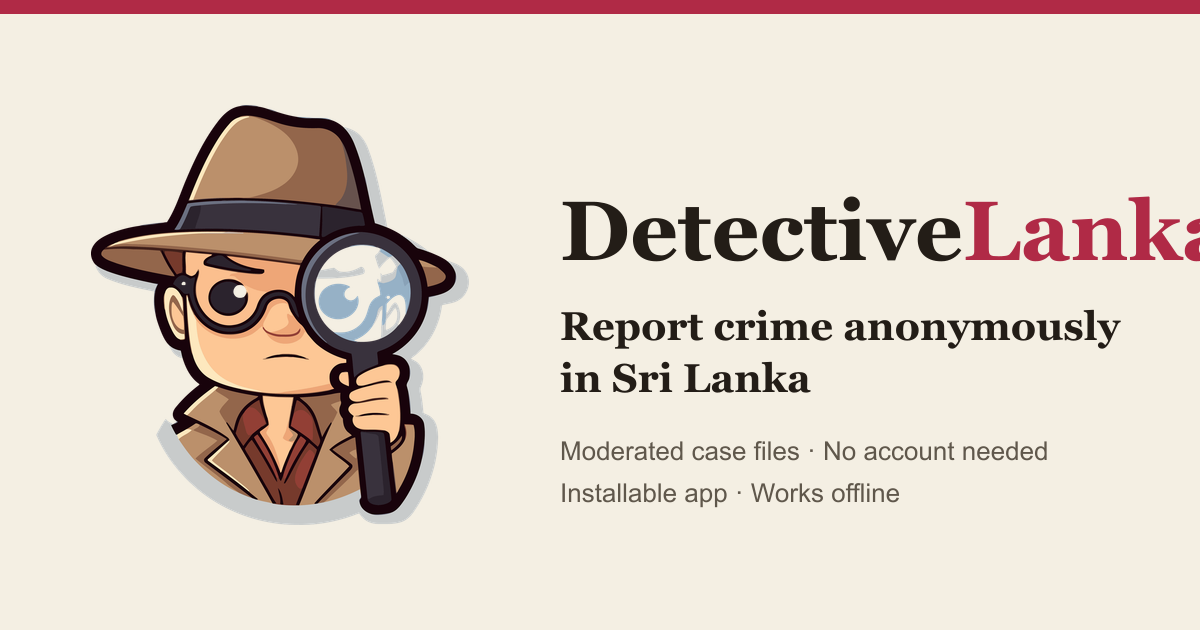
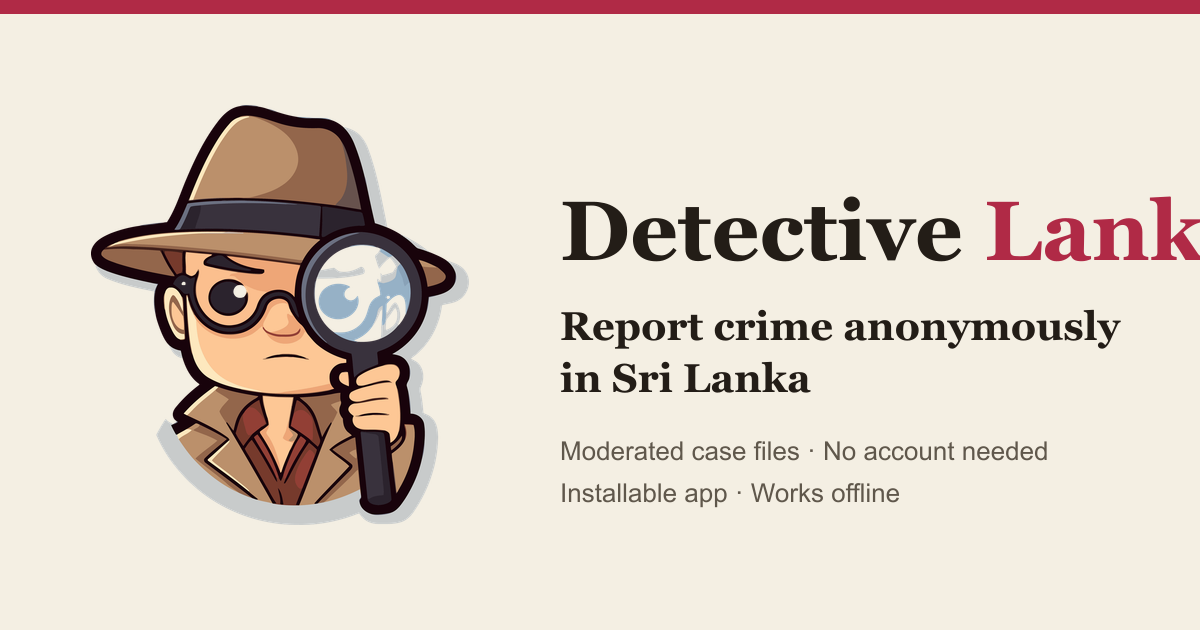
Rename display name to Detective Lanka; new splash screens (v2 names, iPhone Air size)

Changed region(s): [[0.8017, 0.3016, 1.0, 0.4222]]

diff --git a/index.html b/index.html
@@ -31,43 +31,44 @@
     <meta name="apple-mobile-web-app-title" content="Detective Lanka" />
     <meta name="apple-mobile-web-app-status-bar-style" content="default" />
     <link rel="apple-touch-icon" sizes="180x180" href="https://detectivelanka.vercel.app/icons/apple-touch-icon.png?v=2" />
-    <link rel="apple-touch-startup-image" media="(device-width: 440px) and (device-height: 956px) and (-webkit-device-pixel-ratio: 3) and (orientation: portrait)" href="/splash/splash-1320x2868.png" />
-    <link rel="apple-touch-startup-image" media="(device-width: 402px) and (device-height: 874px) and (-webkit-device-pixel-ratio: 3) and (orientation: portrait)" href="/splash/splash-1206x2622.png" />
-    <link rel="apple-touch-startup-image" media="(device-width: 430px) and (device-height: 932px) and (-webkit-device-pixel-ratio: 3) and (orientation: portrait)" href="/splash/splash-1290x2796.png" />
-    <link rel="apple-touch-startup-image" media="(device-width: 393px) and (device-height: 852px) and (-webkit-device-pixel-ratio: 3) and (orientation: portrait)" href="/splash/splash-1179x2556.png" />
-    <link rel="apple-touch-startup-image" media="(device-width: 428px) and (device-height: 926px) and (-webkit-device-pixel-ratio: 3) and (orientation: portrait)" href="/splash/splash-1284x2778.png" />
-    <link rel="apple-touch-startup-image" media="(device-width: 390px) and (device-height: 844px) and (-webkit-device-pixel-ratio: 3) and (orientation: portrait)" href="/splash/splash-1170x2532.png" />
-    <link rel="apple-touch-startup-image" media="(device-width: 375px) and (device-height: 812px) and (-webkit-device-pixel-ratio: 3) and (orientation: portrait)" href="/splash/splash-1125x2436.png" />
-    <link rel="apple-touch-startup-image" media="(device-width: 414px) and (device-height: 896px) and (-webkit-device-pixel-ratio: 3) and (orientation: portrait)" href="/splash/splash-1242x2688.png" />
-    <link rel="apple-touch-startup-image" media="(device-width: 414px) and (device-height: 896px) and (-webkit-device-pixel-ratio: 2) and (orientation: portrait)" href="/splash/splash-828x1792.png" />
-    <link rel="apple-touch-startup-image" media="(device-width: 414px) and (device-height: 736px) and (-webkit-device-pixel-ratio: 3) and (orientation: portrait)" href="/splash/splash-1242x2208.png" />
-    <link rel="apple-touch-startup-image" media="(device-width: 375px) and (device-height: 667px) and (-webkit-device-pixel-ratio: 2) and (orientation: portrait)" href="/splash/splash-750x1334.png" />
-    <link rel="apple-touch-startup-image" media="(device-width: 320px) and (device-height: 568px) and (-webkit-device-pixel-ratio: 2) and (orientation: portrait)" href="/splash/splash-640x1136.png" />
-    <link rel="apple-touch-startup-image" media="(device-width: 834px) and (device-height: 1194px) and (-webkit-device-pixel-ratio: 2) and (orientation: portrait)" href="/splash/splash-1668x2388.png" />
-    <link rel="apple-touch-startup-image" media="(device-width: 1024px) and (device-height: 1366px) and (-webkit-device-pixel-ratio: 2) and (orientation: portrait)" href="/splash/splash-2048x2732.png" />
-    <link rel="apple-touch-startup-image" media="(device-width: 834px) and (device-height: 1112px) and (-webkit-device-pixel-ratio: 2) and (orientation: portrait)" href="/splash/splash-1668x2224.png" />
-    <link rel="apple-touch-startup-image" media="(device-width: 810px) and (device-height: 1080px) and (-webkit-device-pixel-ratio: 2) and (orientation: portrait)" href="/splash/splash-1620x2160.png" />
-    <link rel="apple-touch-startup-image" media="(device-width: 768px) and (device-height: 1024px) and (-webkit-device-pixel-ratio: 2) and (orientation: portrait)" href="/splash/splash-1536x2048.png" />
+    <link rel="apple-touch-startup-image" media="(device-width: 440px) and (device-height: 956px) and (-webkit-device-pixel-ratio: 3) and (orientation: portrait)" href="/splash/splash-v2-1320x2868.png" />
+    <link rel="apple-touch-startup-image" media="(device-width: 420px) and (device-height: 912px) and (-webkit-device-pixel-ratio: 3) and (orientation: portrait)" href="/splash/splash-v2-1260x2736.png" />
+    <link rel="apple-touch-startup-image" media="(device-width: 402px) and (device-height: 874px) and (-webkit-device-pixel-ratio: 3) and (orientation: portrait)" href="/splash/splash-v2-1206x2622.png" />
+    <link rel="apple-touch-startup-image" media="(device-width: 430px) and (device-height: 932px) and (-webkit-device-pixel-ratio: 3) and (orientation: portrait)" href="/splash/splash-v2-1290x2796.png" />
+    <link rel="apple-touch-startup-image" media="(device-width: 393px) and (device-height: 852px) and (-webkit-device-pixel-ratio: 3) and (orientation: portrait)" href="/splash/splash-v2-1179x2556.png" />
+    <link rel="apple-touch-startup-image" media="(device-width: 428px) and (device-height: 926px) and (-webkit-device-pixel-ratio: 3) and (orientation: portrait)" href="/splash/splash-v2-1284x2778.png" />
+    <link rel="apple-touch-startup-image" media="(device-width: 390px) and (device-height: 844px) and (-webkit-device-pixel-ratio: 3) and (orientation: portrait)" href="/splash/splash-v2-1170x2532.png" />
+    <link rel="apple-touch-startup-image" media="(device-width: 375px) and (device-height: 812px) and (-webkit-device-pixel-ratio: 3) and (orientation: portrait)" href="/splash/splash-v2-1125x2436.png" />
+    <link rel="apple-touch-startup-image" media="(device-width: 414px) and (device-height: 896px) and (-webkit-device-pixel-ratio: 3) and (orientation: portrait)" href="/splash/splash-v2-1242x2688.png" />
+    <link rel="apple-touch-startup-image" media="(device-width: 414px) and (device-height: 896px) and (-webkit-device-pixel-ratio: 2) and (orientation: portrait)" href="/splash/splash-v2-828x1792.png" />
+    <link rel="apple-touch-startup-image" media="(device-width: 414px) and (device-height: 736px) and (-webkit-device-pixel-ratio: 3) and (orientation: portrait)" href="/splash/splash-v2-1242x2208.png" />
+    <link rel="apple-touch-startup-image" media="(device-width: 375px) and (device-height: 667px) and (-webkit-device-pixel-ratio: 2) and (orientation: portrait)" href="/splash/splash-v2-750x1334.png" />
+    <link rel="apple-touch-startup-image" media="(device-width: 320px) and (device-height: 568px) and (-webkit-device-pixel-ratio: 2) and (orientation: portrait)" href="/splash/splash-v2-640x1136.png" />
+    <link rel="apple-touch-startup-image" media="(device-width: 834px) and (device-height: 1194px) and (-webkit-device-pixel-ratio: 2) and (orientation: portrait)" href="/splash/splash-v2-1668x2388.png" />
+    <link rel="apple-touch-startup-image" media="(device-width: 1024px) and (device-height: 1366px) and (-webkit-device-pixel-ratio: 2) and (orientation: portrait)" href="/splash/splash-v2-2048x2732.png" />
+    <link rel="apple-touch-startup-image" media="(device-width: 834px) and (device-height: 1112px) and (-webkit-device-pixel-ratio: 2) and (orientation: portrait)" href="/splash/splash-v2-1668x2224.png" />
+    <link rel="apple-touch-startup-image" media="(device-width: 810px) and (device-height: 1080px) and (-webkit-device-pixel-ratio: 2) and (orientation: portrait)" href="/splash/splash-v2-1620x2160.png" />
+    <link rel="apple-touch-startup-image" media="(device-width: 768px) and (device-height: 1024px) and (-webkit-device-pixel-ratio: 2) and (orientation: portrait)" href="/splash/splash-v2-1536x2048.png" />
 
     <!-- Windows tiles -->
     <meta name="msapplication-TileColor" content="#154434" />
     <meta name="msapplication-TileImage" content="/icons/icon-192.png" />
 
-    <meta property="og:site_name" content="DetectiveLanka" />
+    <meta property="og:site_name" content="Detective Lanka" />
     <meta property="og:type" content="website" />
     <meta property="og:locale" content="en_LK" />
     <meta property="og:url" content="https://detectivelanka.vercel.app/" />
-    <meta property="og:title" content="DetectiveLanka — Report Crime Anonymously in Sri Lanka | Anonymous Case Files" />
+    <meta property="og:title" content="Detective Lanka — Report Crime Anonymously in Sri Lanka | Anonymous Case Files" />
     <meta property="og:description" content="Report crime anonymously in Sri Lanka. Open a case, add evidence photos and read moderated public case files on fraud, scams, corruption, theft and cyber crime — no account, name or phone number needed." />
     <meta property="og:image" content="https://detectivelanka.vercel.app/og-image.png" />
     <meta property="og:image:width" content="1200" />
     <meta property="og:image:height" content="630" />
-    <meta property="og:image:alt" content="DetectiveLanka — anonymous case files for Sri Lanka" />
+    <meta property="og:image:alt" content="Detective Lanka — anonymous case files for Sri Lanka" />
     <meta name="twitter:card" content="summary_large_image" />
-    <meta name="twitter:title" content="DetectiveLanka — Report Crime Anonymously in Sri Lanka | Anonymous Case Files" />
+    <meta name="twitter:title" content="Detective Lanka — Report Crime Anonymously in Sri Lanka | Anonymous Case Files" />
     <meta name="twitter:description" content="Report crime anonymously in Sri Lanka. Open a case, add evidence photos and read moderated public case files on fraud, scams, corruption, theft and cyber crime — no account, name or phone number needed." />
     <meta name="twitter:image" content="https://detectivelanka.vercel.app/og-image.png" />
-    <script type="application/ld+json">{"@context":"https://schema.org","@graph":[{"@type":"WebSite","@id":"https://detectivelanka.vercel.app/#website","url":"https://detectivelanka.vercel.app/","name":"DetectiveLanka","description":"Report crime anonymously in Sri Lanka. Open a case, add evidence photos and read moderated public case files on fraud, scams, corruption, theft and cyber crime — no account, name or phone number needed.","inLanguage":"en","potentialAction":{"@type":"SearchAction","target":{"@type":"EntryPoint","urlTemplate":"https://detectivelanka.vercel.app/?q={search_term_string}"},"query-input":"required name=search_term_string"}},{"@type":"WebApplication","@id":"https://detectivelanka.vercel.app/#app","name":"DetectiveLanka","url":"https://detectivelanka.vercel.app/","applicationCategory":"SocialNetworkingApplication","operatingSystem":"Any (Progressive Web App)","description":"Report crime anonymously in Sri Lanka. Open a case, add evidence photos and read moderated public case files on fraud, scams, corruption, theft and cyber crime — no account, name or phone number needed.","offers":{"@type":"Offer","price":"0","priceCurrency":"LKR"},"areaServed":{"@type":"Country","name":"Sri Lanka"},"isAccessibleForFree":true,"featureList":["Anonymous case reporting","Moderated public case files","Photo evidence exhibits","Statements and reporting","Works offline and installs like an app"]},{"@type":"FAQPage","mainEntity":[{"@type":"Question","name":"How do I report a crime anonymously in Sri Lanka?","acceptedAnswer":{"@type":"Answer","text":"Open DetectiveLanka, tap Open Case, describe what happened and optionally add photos. No name, email or phone number is needed. A moderator reviews the case before it is published."}},{"@type":"Question","name":"Is DetectiveLanka really anonymous?","acceptedAnswer":{"@type":"Answer","text":"There are no accounts. You get a secret case key that stays on your device, photo location data is removed, and IP addresses are not stored with cases. Internet providers and hosting services may still keep their own technical logs."}},{"@type":"Question","name":"Is this a replacement for the police?","acceptedAnswer":{"@type":"Answer","text":"No. Detective Lanka is not monitored in real time. In an emergency call the Sri Lanka Police on 119."}}]}]}</script>
+    <script type="application/ld+json">{"@context":"https://schema.org","@graph":[{"@type":"WebSite","@id":"https://detectivelanka.vercel.app/#website","url":"https://detectivelanka.vercel.app/","name":"Detective Lanka","description":"Report crime anonymously in Sri Lanka. Open a case, add evidence photos and read moderated public case files on fraud, scams, corruption, theft and cyber crime — no account, name or phone number needed.","inLanguage":"en","potentialAction":{"@type":"SearchAction","target":{"@type":"EntryPoint","urlTemplate":"https://detectivelanka.vercel.app/?q={search_term_string}"},"query-input":"required name=search_term_string"}},{"@type":"WebApplication","@id":"https://detectivelanka.vercel.app/#app","name":"Detective Lanka","url":"https://detectivelanka.vercel.app/","applicationCategory":"SocialNetworkingApplication","operatingSystem":"Any (Progressive Web App)","description":"Report crime anonymously in Sri Lanka. Open a case, add evidence photos and read moderated public case files on fraud, scams, corruption, theft and cyber crime — no account, name or phone number needed.","offers":{"@type":"Offer","price":"0","priceCurrency":"LKR"},"areaServed":{"@type":"Country","name":"Sri Lanka"},"isAccessibleForFree":true,"featureList":["Anonymous case reporting","Moderated public case files","Photo evidence exhibits","Statements and reporting","Works offline and installs like an app"]},{"@type":"FAQPage","mainEntity":[{"@type":"Question","name":"How do I report a crime anonymously in Sri Lanka?","acceptedAnswer":{"@type":"Answer","text":"Open Detective Lanka, tap Open Case, describe what happened and optionally add photos. No name, email or phone number is needed. A moderator reviews the case before it is published."}},{"@type":"Question","name":"Is Detective Lanka really anonymous?","acceptedAnswer":{"@type":"Answer","text":"There are no accounts. You get a secret case key that stays on your device, photo location data is removed, and IP addresses are not stored with cases. Internet providers and hosting services may still keep their own technical logs."}},{"@type":"Question","name":"Is this a replacement for the police?","acceptedAnswer":{"@type":"Answer","text":"No. Detective Lanka is not monitored in real time. In an emergency call the Sri Lanka Police on 119."}}]}]}</script>
   </head>
   <body>
     <div id="root"></div>

diff --git a/src/pages/Info.tsx b/src/pages/Info.tsx
@@ -34,10 +34,10 @@ function Page({ title, intro, children }: { title: string; intro: string; childr
 const ul = 'list-disc space-y-1.5 pl-5';
 
 export function About() {
-  usePageMeta({ title: 'Privacy', description: 'How DetectiveLanka protects your anonymity, what it does and does not collect, and the limits of that protection.', path: '/about' });
+  usePageMeta({ title: 'Privacy', description: 'How Detective Lanka protects your anonymity, what it does and does not collect, and the limits of that protection.', path: '/about' });
   const { installable, install, standalone } = usePwa();
   return (
-    <Page title="Privacy" intro="DetectiveLanka is built so that we know as little about you as possible.">
+    <Page title="Privacy" intro="Detective Lanka is built so that we know as little about you as possible.">
       <Article n={1} icon="lock" title="What we never ask for">
         <ul className={ul}>
           <li>No accounts, names, emails, phone numbers or social logins.</li>
@@ -57,7 +57,7 @@ export function About() {
         <p>We cannot make you invisible. Your internet provider, your network, and the services we rely on (hosting, database, image storage, caching) may keep their own technical logs outside our control. If your safety depends on strong anonymity, use a trusted privacy tool such as Tor Browser on a network not linked to you, and avoid details only you would know. Writing style and photo content can also identify people.</p>
       </Article>
       <Article n={5} icon="download" title="Install the app">
-        <p>DetectiveLanka is a full app you can install — no app store needed, and it keeps working offline for case files you have opened.</p>
+        <p>Detective Lanka is a full app you can install — no app store needed, and it keeps working offline for case files you have opened.</p>
         <ul className={ul}>
           <li><strong>iPhone / iPad:</strong> open in Safari → Share → Add to Home Screen.</li>
           <li><strong>Android:</strong> Chrome menu → Install app (or tap Install below).</li>
@@ -73,7 +73,7 @@ export function About() {
 }
 
 export function Guidelines() {
-  usePageMeta({ title: 'Code of conduct', description: 'Rules for opening cases and filing statements on DetectiveLanka.', path: '/guidelines' });
+  usePageMeta({ title: 'Code of conduct', description: 'Rules for opening cases and filing statements on Detective Lanka.', path: '/guidelines' });
   return (
     <Page title="Code of conduct" intro="Case files should help the public — not harass or endanger anyone.">
       <Article n={1} icon="check" title="Do">

diff --git a/src/pages/Status.tsx b/src/pages/Status.tsx
@@ -46,7 +46,7 @@ function Row({ icon, label, state }: { icon: IconName; label: string; state: 'up
 }
 
 export default function Status() {
-  usePageMeta({ title: 'System status', description: 'Live status of the DetectiveLanka service: availability, response time and uptime.', path: '/status' });
+  usePageMeta({ title: 'System status', description: 'Live status of the Detective Lanka service: availability, response time and uptime.', path: '/status' });
   const [auto, setAuto] = useState(() => {
     try {
       return localStorage.getItem('app:status-auto') !== '0';
@@ -123,7 +123,7 @@ export default function Status() {
   return (
     <div className="mx-auto max-w-2xl">
       <h1 className="font-display text-3xl font-bold sm:text-4xl">System status</h1>
-      <p className="mt-1.5 text-sm text-ink-soft">Live availability of the DetectiveLanka service. This page checks automatically.</p>
+      <p className="mt-1.5 text-sm text-ink-soft">Live availability of the Detective Lanka service. This page checks automatically.</p>
 
       <section className={cx('card mt-6 border p-5', tone)} aria-live="polite">
         <div className="flex items-center gap-3">

diff --git a/src/components/Pwa.tsx b/src/components/Pwa.tsx
@@ -189,7 +189,7 @@ export function InstallCard() {
         <Icon name="download" size={20} />
       </span>
       <div className="min-w-0 flex-1">
-        <p className="text-sm font-bold">Install DetectiveLanka</p>
+        <p className="text-sm font-bold">Install Detective Lanka</p>
         <p className="text-xs text-ink-soft">Full-screen app, works offline.</p>
       </div>
       <button className="btn-primary !min-h-10 !px-4" onClick={install}>
@@ -222,7 +222,7 @@ function IOSInstallSheet() {
         <li className="flex gap-3">
           <span className="grid h-7 w-7 shrink-0 place-items-center rounded-full bg-ink text-xs font-bold text-white">3</span>
           <span>
-            Tap <strong>Add</strong>. DetectiveLanka opens full-screen from your home screen, like any other app.
+            Tap <strong>Add</strong>. Detective Lanka opens full-screen from your home screen, like any other app.
           </span>
         </li>
       </ol>

diff --git a/src/components/Layout.tsx b/src/components/Layout.tsx
@@ -8,11 +8,11 @@ import { OfflineBar, UpdateToast, usePwa } from './Pwa';
 
 export function Logo({ compact = false }: { compact?: boolean }) {
   return (
-    <Link to="/" className="chrome flex items-center gap-2.5 rounded-xl" aria-label="DetectiveLanka home">
+    <Link to="/" className="chrome flex items-center gap-2.5 rounded-xl" aria-label="Detective Lanka home">
       <LogoMark size={compact ? 32 : 42} className="shrink-0" />
       <span className="font-display leading-none font-bold tracking-tight text-ink">
         <span className={compact ? 'text-lg' : 'text-xl'}>
-          Detective<span className="text-brand-600">Lanka</span>
+          Detective <span className="text-brand-600">Lanka</span>
         </span>
         {!compact && <span className="mt-1 block font-mono text-[0.62rem] font-normal tracking-[0.18em] text-ink-soft uppercase">Anonymous case files</span>}
       </span>

diff --git a/public/offline.html b/public/offline.html
@@ -4,7 +4,7 @@
     <meta charset="UTF-8" />
     <meta name="viewport" content="width=device-width, initial-scale=1, viewport-fit=cover" />
     <meta name="theme-color" content="#f6f2ea" />
-    <title>Offline · DetectiveLanka</title>
+    <title>Offline · Detective Lanka</title>
     <style>
       :root { color-scheme: light; }
       * { box-sizing: border-box; }
@@ -20,7 +20,7 @@
     <main>
       <img src="/icons/icon-192.png" alt="" width="84" height="84" />
       <h1>You are offline</h1>
-      <p>DetectiveLanka needs a connection to load case files. Cases you opened recently may still be available once the app reconnects.</p>
+      <p>Detective Lanka needs a connection to load case files. Cases you opened recently may still be available once the app reconnects.</p>
       <button onclick="location.reload()">Try again</button>
     </main>
   </body>

diff --git a/src/lib/util.ts b/src/lib/util.ts
@@ -34,7 +34,7 @@ export function timeAgo(iso: string | null | undefined): string {
 export function usePageMeta(opts: { title?: string; description?: string; image?: string; path?: string; noindex?: boolean }): void {
   const { title, description, image, path, noindex } = opts;
   useEffect(() => {
-    const fullTitle = title ? `${title} · DetectiveLanka` : 'DetectiveLanka — Report Crime Anonymously in Sri Lanka | Anonymous Case Files';
+    const fullTitle = title ? `${title} · Detective Lanka` : 'Detective Lanka — Report Crime Anonymously in Sri Lanka | Anonymous Case Files';
     document.title = fullTitle;
     const set = (attr: 'name' | 'property', key: string, value: string | undefined) => {
       let el = document.head.querySelector<HTMLMetaElement>(`meta[${attr}="${key}"]`);

diff --git a/src/components/HelpSheet.tsx b/src/components/HelpSheet.tsx
@@ -13,7 +13,7 @@ const steps: { icon: IconName; title: string; text: string }[] = [
 export function HelpSheet({ open, onClose }: { open: boolean; onClose: () => void }) {
   const link = 'flex min-h-12 items-center justify-between rounded-xl bg-black/5 px-4 text-sm font-bold active:bg-black/10';
   return (
-    <Dialog open={open} onClose={onClose} title="About DetectiveLanka" size="lg">
+    <Dialog open={open} onClose={onClose} title="About Detective Lanka" size="lg">
       <p className="text-sm text-ink-soft">
         An anonymous, moderated case-file app for Sri Lanka. Report crime, read cleared cases and add what you know — without creating an account or giving any personal details.
       </p>

diff --git a/src/components/EditKeyDialog.tsx b/src/components/EditKeyDialog.tsx
@@ -35,7 +35,7 @@ export function EditKeyDialog({
   };
 
   const download = () => {
-    const blob = new Blob([`DetectiveLanka — case key for your ${kind}\n\n${editKey}\n\nKeep this secret. Anyone with this key can edit or delete your ${kind}.\nIt cannot be recovered if lost.\n`], { type: 'text/plain' });
+    const blob = new Blob([`Detective Lanka — case key for your ${kind}\n\n${editKey}\n\nKeep this secret. Anyone with this key can edit or delete your ${kind}.\nIt cannot be recovered if lost.\n`], { type: 'text/plain' });
     const url = URL.createObjectURL(blob);
     const a = document.createElement('a');
     a.href = url;
